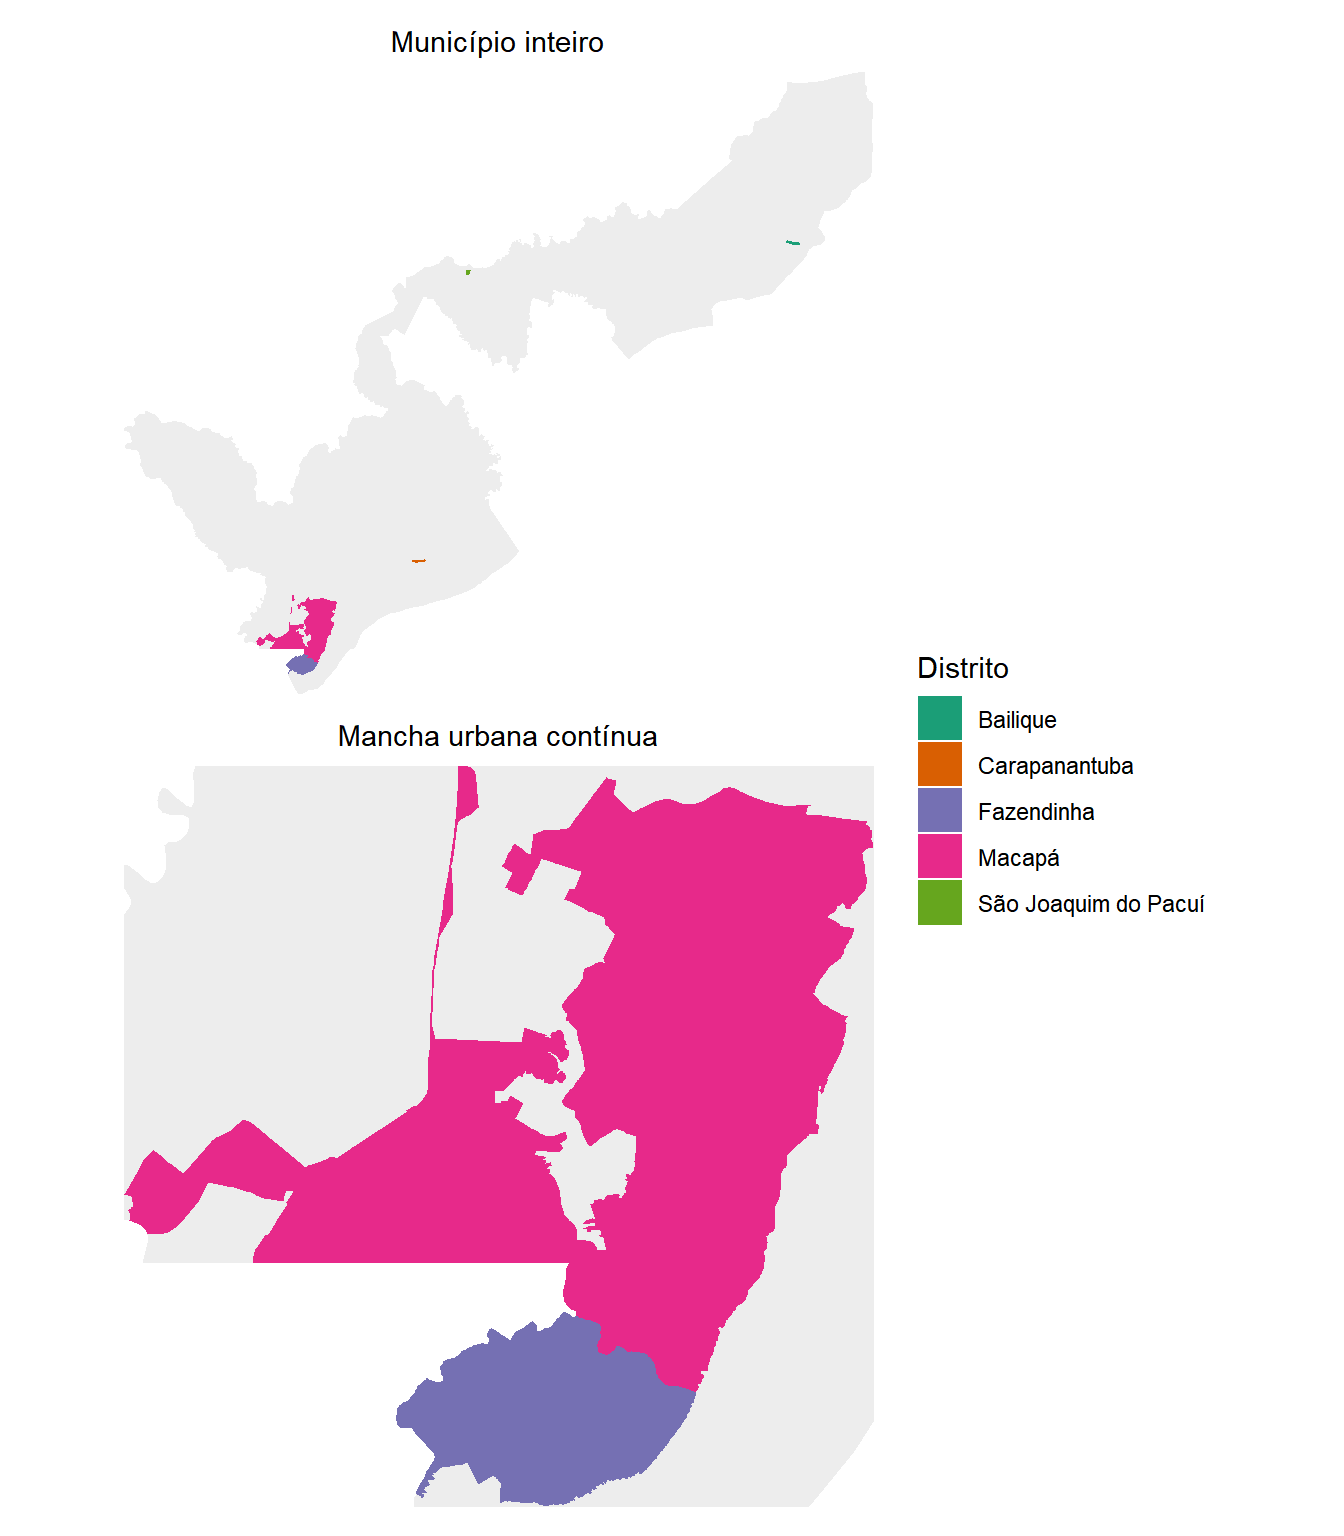
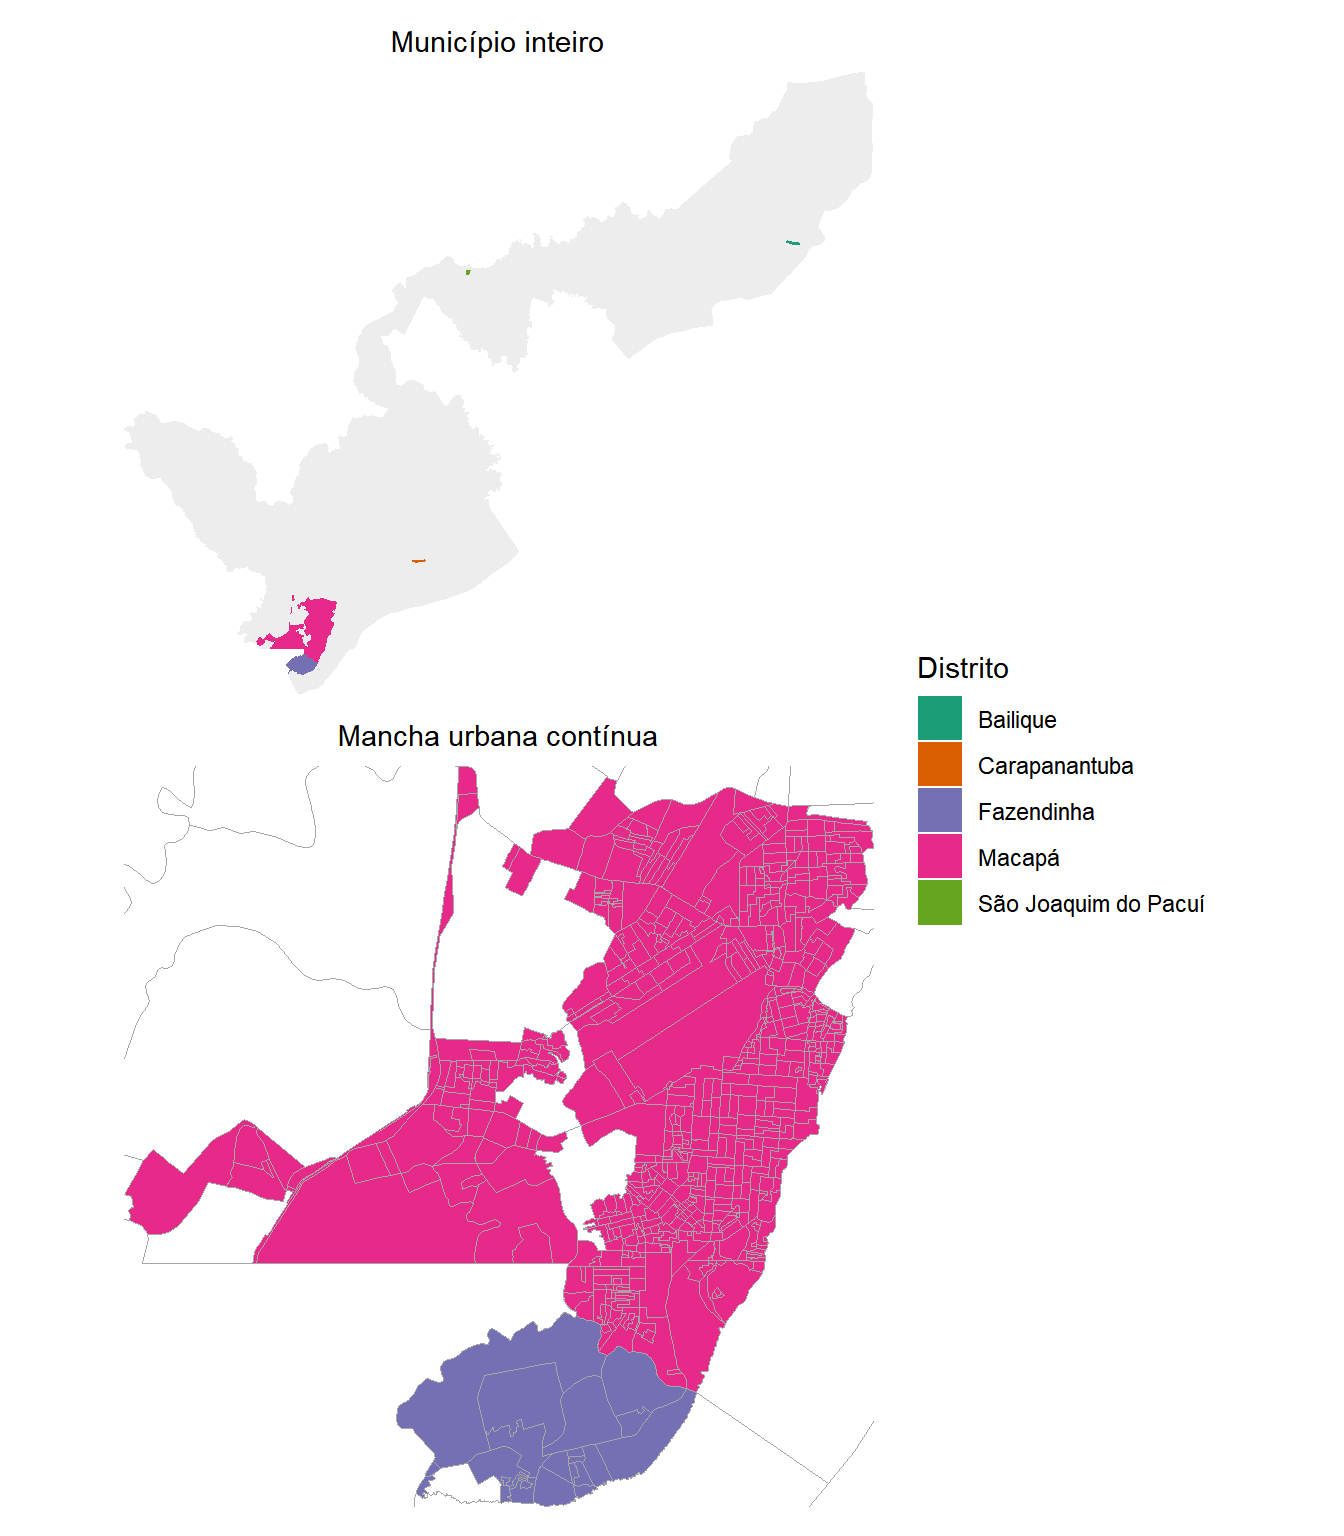
ajustes no Cap 14

diff --git a/docs/14-saneamento.html b/docs/14-saneamento.html
@@ -514,20 +514,18 @@ Tabela&nbsp;14.1: Setores censitários, população e área de Macapá (AP) segu
 </figure>
 </div>
 </div>
-<p>Veja como a mancha urbana concentra a quase totalidade da população em cerca de 2,5% da área do município. Vale levar essa mesma informação ao mapa, porque a tabela diz quanto e o mapa diz onde. Antes, vamos ler as geometrias dos setores com <code>read_census_tract()</code> e uni-las ao arquivo Básico, guardando o resultado em <code>setores_geo</code>, que será reaproveitado em todos os mapas do capítulo:</p>
+<p>Veja como a mancha urbana concentra a quase totalidade da população em cerca de 2,5% da área do município. Vale levar essa mesma informação ao mapa, porque a tabela diz quanto e o mapa diz onde. Antes, vamos ler as geometrias dos setores com <code>read_census_tract()</code>, guardando o resultado em <code>setores_geo</code>, que será reaproveitado em todos os mapas do capítulo:</p>
 <div class="cell">
 <div class="code-copy-outer-scaffold"><div class="sourceCode cell-code" id="cb5"><pre class="sourceCode r code-with-copy"><code class="sourceCode r"><span id="cb5-1"><a href="#cb5-1" aria-hidden="true" tabindex="-1"></a>setores_geo <span class="ot">&lt;-</span> <span class="fu">read_census_tract</span>(</span>
 <span id="cb5-2"><a href="#cb5-2" aria-hidden="true" tabindex="-1"></a>  <span class="at">code_tract =</span> macapa,</span>
 <span id="cb5-3"><a href="#cb5-3" aria-hidden="true" tabindex="-1"></a>  <span class="at">year       =</span> <span class="dv">2022</span>,</span>
 <span id="cb5-4"><a href="#cb5-4" aria-hidden="true" tabindex="-1"></a>  <span class="at">simplified =</span> <span class="cn">FALSE</span></span>
-<span id="cb5-5"><a href="#cb5-5" aria-hidden="true" tabindex="-1"></a>) <span class="sc">|&gt;</span></span>
-<span id="cb5-6"><a href="#cb5-6" aria-hidden="true" tabindex="-1"></a>  <span class="fu">select</span>(code_tract) <span class="sc">|&gt;</span></span>
-<span id="cb5-7"><a href="#cb5-7" aria-hidden="true" tabindex="-1"></a>  <span class="fu">left_join</span>(basico, <span class="at">by =</span> <span class="st">"code_tract"</span>)</span></code></pre></div><button title="Copiar para a área de transferência" class="code-copy-button"><i class="bi"></i></button></div>
+<span id="cb5-5"><a href="#cb5-5" aria-hidden="true" tabindex="-1"></a>)</span></code></pre></div><button title="Copiar para a área de transferência" class="code-copy-button"><i class="bi"></i></button></div>
 </div>
-<p>Produzindo então um mapa coroplético cuja cor de preenchimento é baseada no tipo de setor, temos:</p>
+<p>Note que não foi preciso juntar nada ao arquivo Básico. A própria malha de setores já vem com a coluna <code>zone</code>, que classifica o setor entre urbano e rural, e com as colunas <code>name_district</code> e <code>name_neighborhood</code>, que trazem o distrito e o bairro. Produzindo então um mapa coroplético cuja cor de preenchimento é a <code>zone</code> de cada setor, temos:</p>
 <div class="cell">
 <div class="code-copy-outer-scaffold"><div class="sourceCode cell-code" id="cb6"><pre class="sourceCode r code-with-copy"><code class="sourceCode r"><span id="cb6-1"><a href="#cb6-1" aria-hidden="true" tabindex="-1"></a><span class="fu">ggplot</span>(setores_geo) <span class="sc">+</span></span>
-<span id="cb6-2"><a href="#cb6-2" aria-hidden="true" tabindex="-1"></a>  <span class="fu">geom_sf</span>(<span class="fu">aes</span>(<span class="at">fill =</span> situacao), <span class="at">color =</span> <span class="cn">NA</span>) <span class="sc">+</span></span>
+<span id="cb6-2"><a href="#cb6-2" aria-hidden="true" tabindex="-1"></a>  <span class="fu">geom_sf</span>(<span class="fu">aes</span>(<span class="at">fill =</span> zone), <span class="at">color =</span> <span class="cn">NA</span>) <span class="sc">+</span></span>
 <span id="cb6-3"><a href="#cb6-3" aria-hidden="true" tabindex="-1"></a>  <span class="fu">scale_fill_brewer</span>(<span class="at">palette =</span> <span class="st">"Set2"</span>, <span class="at">name =</span> <span class="st">"Situação"</span>, <span class="at">na.value =</span> <span class="st">"gray85"</span>,</span>
 <span id="cb6-4"><a href="#cb6-4" aria-hidden="true" tabindex="-1"></a>                    <span class="at">labels =</span> <span class="fu">c</span>(<span class="st">"Rural"</span>, <span class="st">"Urbana"</span>, <span class="st">"Sem classificação"</span>)) <span class="sc">+</span></span>
 <span id="cb6-5"><a href="#cb6-5" aria-hidden="true" tabindex="-1"></a>  <span class="fu">coord_sf</span>(<span class="at">expand =</span> <span class="cn">FALSE</span>) <span class="sc">+</span></span>
@@ -626,7 +624,7 @@ Tabela&nbsp;14.2: Distribuição dos setores censitários urbanos de Macapá (AP
 <p>Observemos no mapa para deixar o argumento visível. Na parte superior, os setores urbanos coloridos por distrito sobre o município inteiro, desenhado em cinza claro. Embaixo, o mesmo mapa recortado na mancha urbana contínua, o que exige apenas informar ao <code>coord_sf()</code> os limites desejados nos argumentos <code>xlim</code> e <code>ylim</code>. Esses limites saem do próprio dado, com a caixa delimitadora, dada por <code>st_bbox()</code>, aplicada aos setores dos dois distritos centrais:</p>
 <div class="cell">
 <div class="code-copy-outer-scaffold"><div class="sourceCode cell-code" id="cb9"><pre class="sourceCode r code-with-copy"><code class="sourceCode r"><span id="cb9-1"><a href="#cb9-1" aria-hidden="true" tabindex="-1"></a>urbanos_geo <span class="ot">&lt;-</span> setores_geo <span class="sc">|&gt;</span></span>
-<span id="cb9-2"><a href="#cb9-2" aria-hidden="true" tabindex="-1"></a>  <span class="fu">filter</span>(situacao <span class="sc">==</span> <span class="st">"Urbana"</span>)</span>
+<span id="cb9-2"><a href="#cb9-2" aria-hidden="true" tabindex="-1"></a>  <span class="fu">filter</span>(zone <span class="sc">==</span> <span class="st">"Urbana"</span>)</span>
 <span id="cb9-3"><a href="#cb9-3" aria-hidden="true" tabindex="-1"></a></span>
 <span id="cb9-4"><a href="#cb9-4" aria-hidden="true" tabindex="-1"></a>recorte <span class="ot">&lt;-</span> urbanos_geo <span class="sc">|&gt;</span></span>
 <span id="cb9-5"><a href="#cb9-5" aria-hidden="true" tabindex="-1"></a>  <span class="fu">filter</span>(name_district <span class="sc">%in%</span> <span class="fu">c</span>(<span class="st">"Macapá"</span>, <span class="st">"Fazendinha"</span>)) <span class="sc">|&gt;</span></span>
@@ -645,9 +643,9 @@ Tabela&nbsp;14.2: Distribuição dos setores censitários urbanos de Macapá (AP
 <span id="cb9-18"><a href="#cb9-18" aria-hidden="true" tabindex="-1"></a>        <span class="at">plot.subtitle =</span> <span class="fu">element_text</span>(<span class="at">hjust =</span> <span class="fl">0.5</span>))</span>
 <span id="cb9-19"><a href="#cb9-19" aria-hidden="true" tabindex="-1"></a></span>
 <span id="cb9-20"><a href="#cb9-20" aria-hidden="true" tabindex="-1"></a>mapa_mancha <span class="ot">&lt;-</span> <span class="fu">ggplot</span>() <span class="sc">+</span></span>
-<span id="cb9-21"><a href="#cb9-21" aria-hidden="true" tabindex="-1"></a>  <span class="fu">geom_sf</span>(<span class="at">data =</span> setores_geo, <span class="at">fill =</span> <span class="st">"gray93"</span>, <span class="at">color =</span> <span class="cn">NA</span>) <span class="sc">+</span></span>
-<span id="cb9-22"><a href="#cb9-22" aria-hidden="true" tabindex="-1"></a>  <span class="fu">geom_sf</span>(<span class="at">data =</span> urbanos_geo, <span class="fu">aes</span>(<span class="at">fill =</span> name_district),</span>
-<span id="cb9-23"><a href="#cb9-23" aria-hidden="true" tabindex="-1"></a>          <span class="at">color =</span> <span class="cn">NA</span>) <span class="sc">+</span></span>
+<span id="cb9-21"><a href="#cb9-21" aria-hidden="true" tabindex="-1"></a>  <span class="fu">geom_sf</span>(<span class="at">data =</span> urbanos_geo, <span class="fu">aes</span>(<span class="at">fill =</span> name_district),</span>
+<span id="cb9-22"><a href="#cb9-22" aria-hidden="true" tabindex="-1"></a>          <span class="at">color =</span> <span class="cn">NA</span>) <span class="sc">+</span></span>
+<span id="cb9-23"><a href="#cb9-23" aria-hidden="true" tabindex="-1"></a>  <span class="fu">geom_sf</span>(<span class="at">data =</span> setores_geo, <span class="at">fill =</span> <span class="cn">NA</span>, <span class="at">color =</span> <span class="st">"gray65"</span>) <span class="sc">+</span></span>
 <span id="cb9-24"><a href="#cb9-24" aria-hidden="true" tabindex="-1"></a>  <span class="fu">scale_fill_brewer</span>(<span class="at">palette =</span> <span class="st">"Dark2"</span>, <span class="at">name =</span> <span class="st">"Distrito"</span>) <span class="sc">+</span></span>
 <span id="cb9-25"><a href="#cb9-25" aria-hidden="true" tabindex="-1"></a>  <span class="fu">coord_sf</span>(<span class="at">xlim =</span> recorte[<span class="fu">c</span>(<span class="st">"xmin"</span>, <span class="st">"xmax"</span>)],</span>
 <span id="cb9-26"><a href="#cb9-26" aria-hidden="true" tabindex="-1"></a>           <span class="at">ylim =</span> recorte[<span class="fu">c</span>(<span class="st">"ymin"</span>, <span class="st">"ymax"</span>)], <span class="at">expand =</span> <span class="cn">FALSE</span>) <span class="sc">+</span></span>
